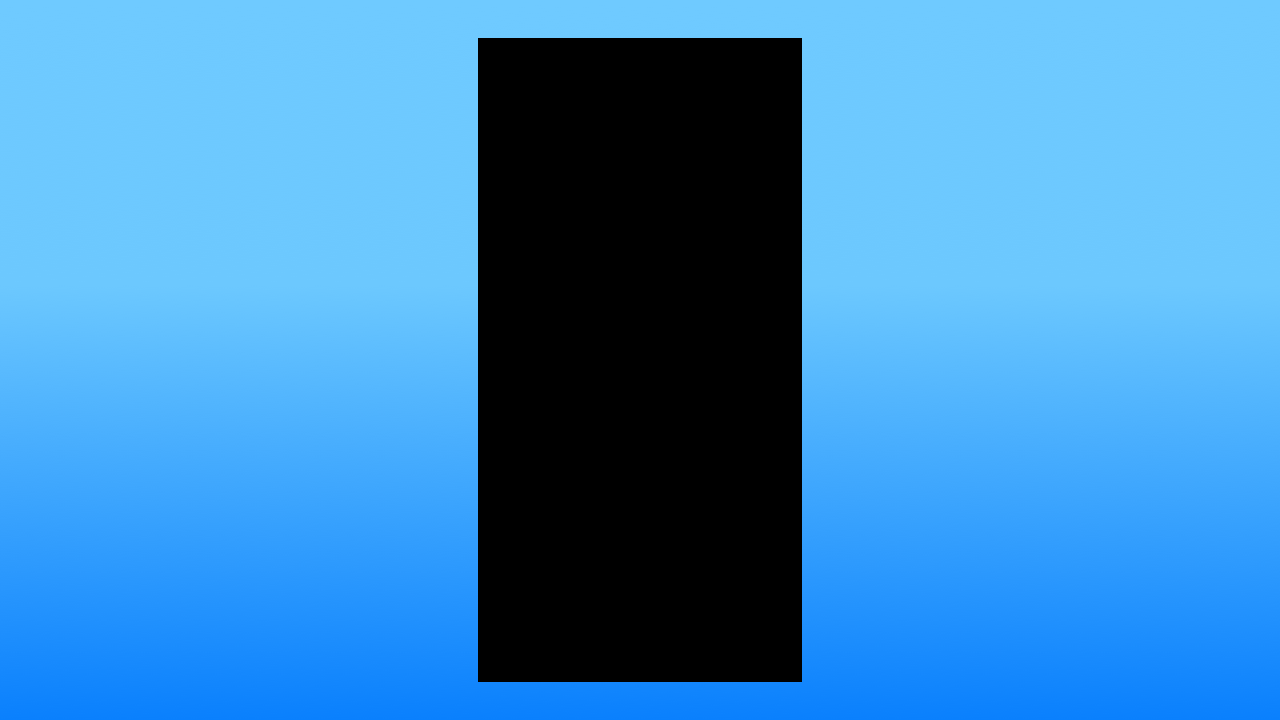
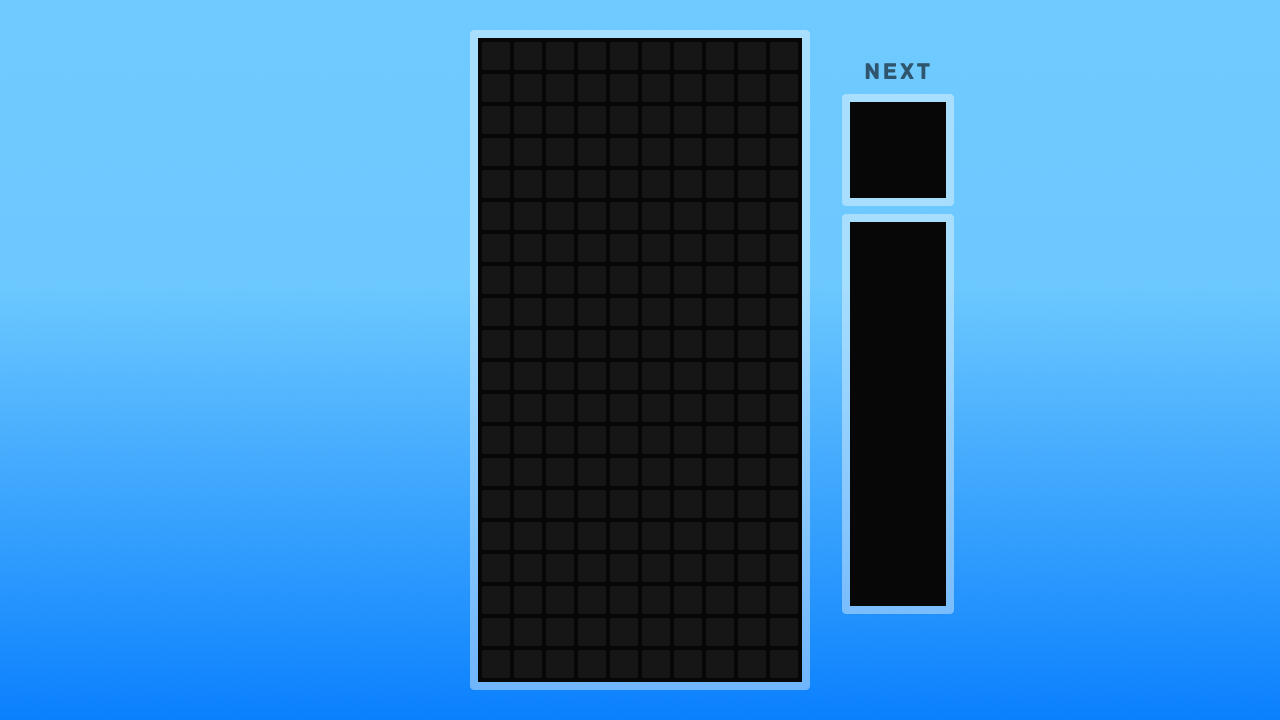
Repositioned piece queue

Changed region(s): [[0.3438, 0.0306, 0.75, 0.9472], [0.375, 0.9472, 0.625, 0.9778]]

diff --git a/rtris/graphics.rb b/rtris/graphics.rb
@@ -65,10 +65,13 @@ module Rtris
     end
 
     def draw_piece_queue(queue)
-      5.times do |i|
-        piece = queue.peek(i)
-        x = 200
-        y = 50 * i + 16
+      piece = queue.peek(0)
+      @piece_sprites[piece.type].draw(862, 128, 0)
+
+      4.times do |i|
+        piece = queue.peek(i + 1)
+        x = 862
+        y = 222 + (96 * i) + 26
         @piece_sprites[piece.type].draw(x, y, 0)
       end
     end
